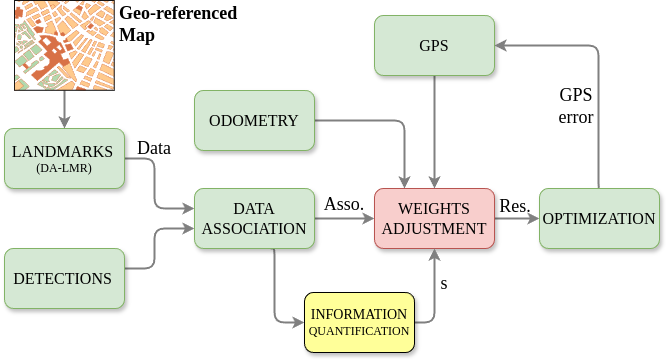
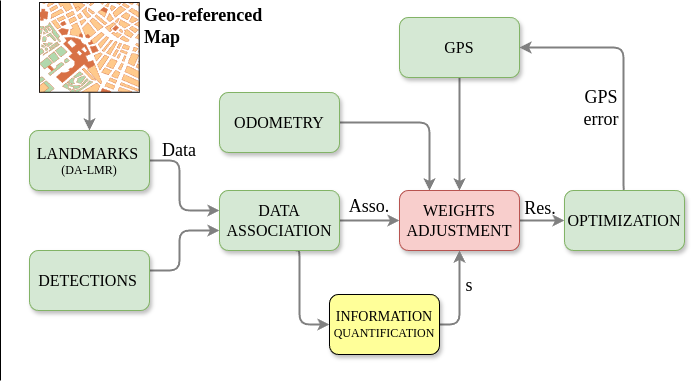
Include detections depiction

Changed region(s): [[0.0, 0.0, 1.0, 1.0], [0.6306, 0.0917, 0.6907, 0.1528]]

diff --git a/index.html b/index.html
@@ -129,9 +129,11 @@
 <section class="hero is-small">
   <div class="hero-body">
     <div class="container">
-        <img src="static/images/pipeline_weight.png" alt="Diagram Robust Single Object Tracking and Following by Fusion Strategy" class="center" width="60%"/>
-        <h2 class="subtitle has-text-centered">
-          <b>Geo-localization pipeline:</b> The yellow block quantifies the information. Using this quantification, <br/>we adjust the weight in the factor graph to mitigate the drawbacks exposed below.
+        <img src="static/images/detections.png" alt="Diagram Robust Single Object Tracking and Following by Fusion Strategy" class="left" width="35%"/>
+        <img src="static/images/pipeline_weight.png" alt="Diagram Robust Single Object Tracking and Following by Fusion Strategy" class="right" width="65%"/> 
+        <h2 class="subtitle has-text-left">
+          <b>Ground boundaries in red (left):</b> From LiDAR (detections) and from aerial imagery (landmarks).
+          <br/><b>Geo-localization pipeline (right):</b> The yellow block quantifies the information. Using this quantification, we adjust the weight in the factor graph to mitigate the drawbacks exposed below.
         </h2>
     </div>
   </div>
